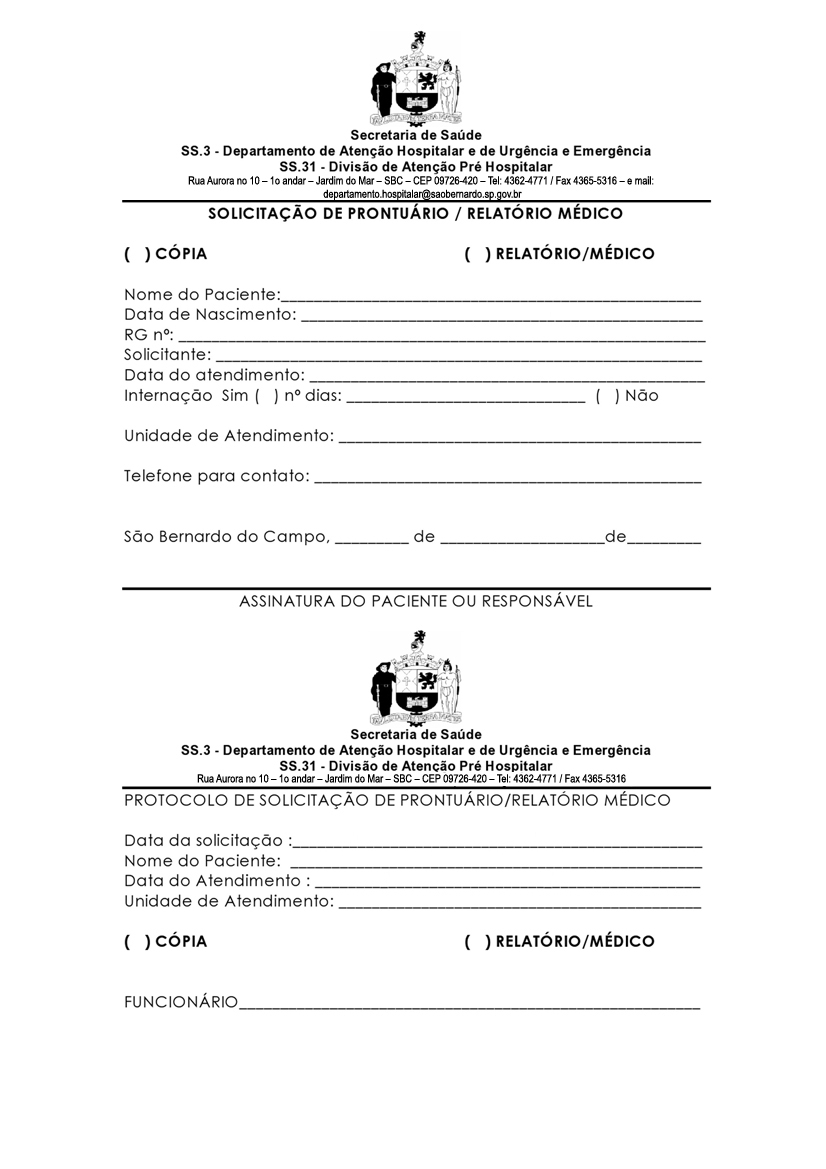
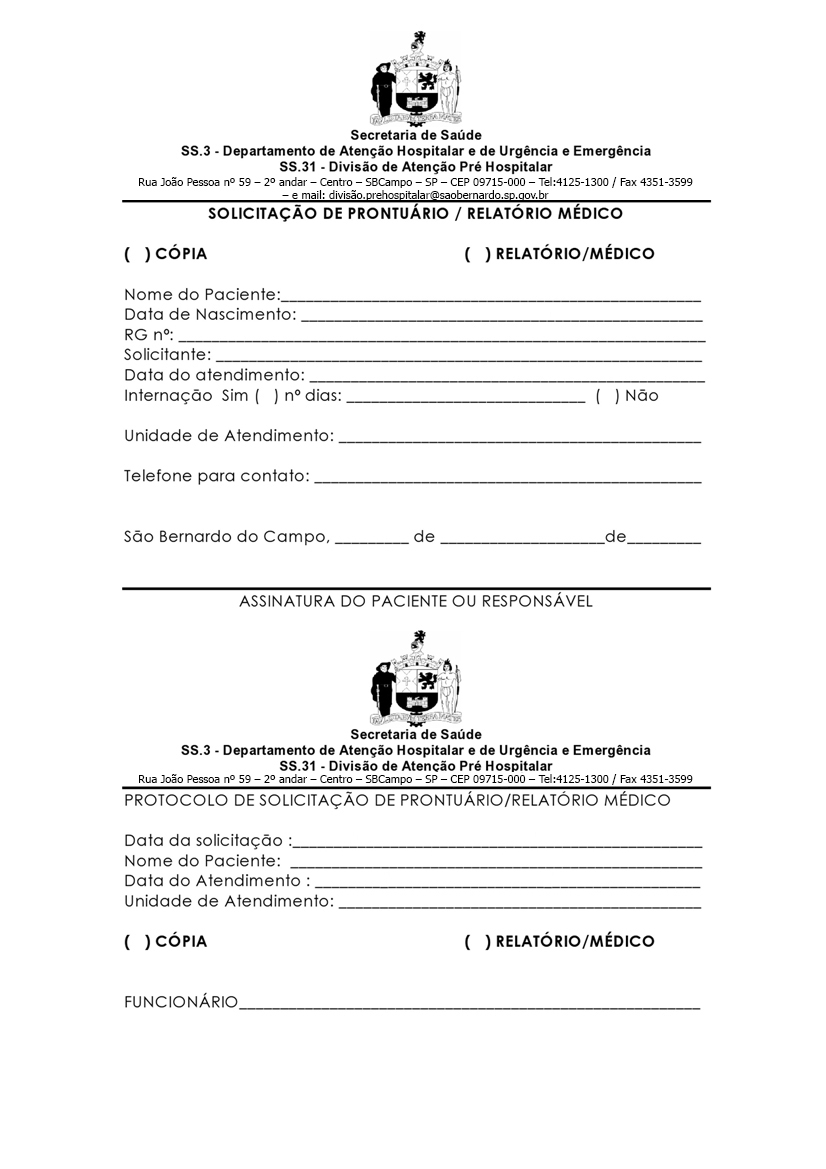
Atualizado o endereço novo

Changed region(s): [[0.1816, 0.6467, 0.7567, 0.6775], [0.3329, 0.154, 0.7869, 0.1848], [0.2119, 0.154, 0.3027, 0.1848]]

diff --git a/Properties/AssemblyInfo.cs b/Properties/AssemblyInfo.cs
@@ -33,6 +33,6 @@ using System.Resources;
 // You can specify all the values or you can default the Build and Revision Numbers 
 // by using the '*' as shown below:
 // [assembly: AssemblyVersion("1.0.*")]
-[assembly: AssemblyVersion("3.0.1.1")]
-[assembly: AssemblyFileVersion("3.0.1.1")]
+[assembly: AssemblyVersion("3.0.1.3")]
+[assembly: AssemblyFileVersion("3.0.1.3")]
 [assembly: NeutralResourcesLanguageAttribute("pt-BR")]

diff --git a/Menu.cs b/Menu.cs
@@ -42,7 +42,6 @@ namespace WindowsFormsApplication1
 
         public void horarioComercial()
         {
-
             TimeSpan inicio = new TimeSpan(07, 50, 0);
             TimeSpan final = new TimeSpan(17, 10, 0);
             TimeSpan puts = DateTime.Now - DateTime.Now.Date;
